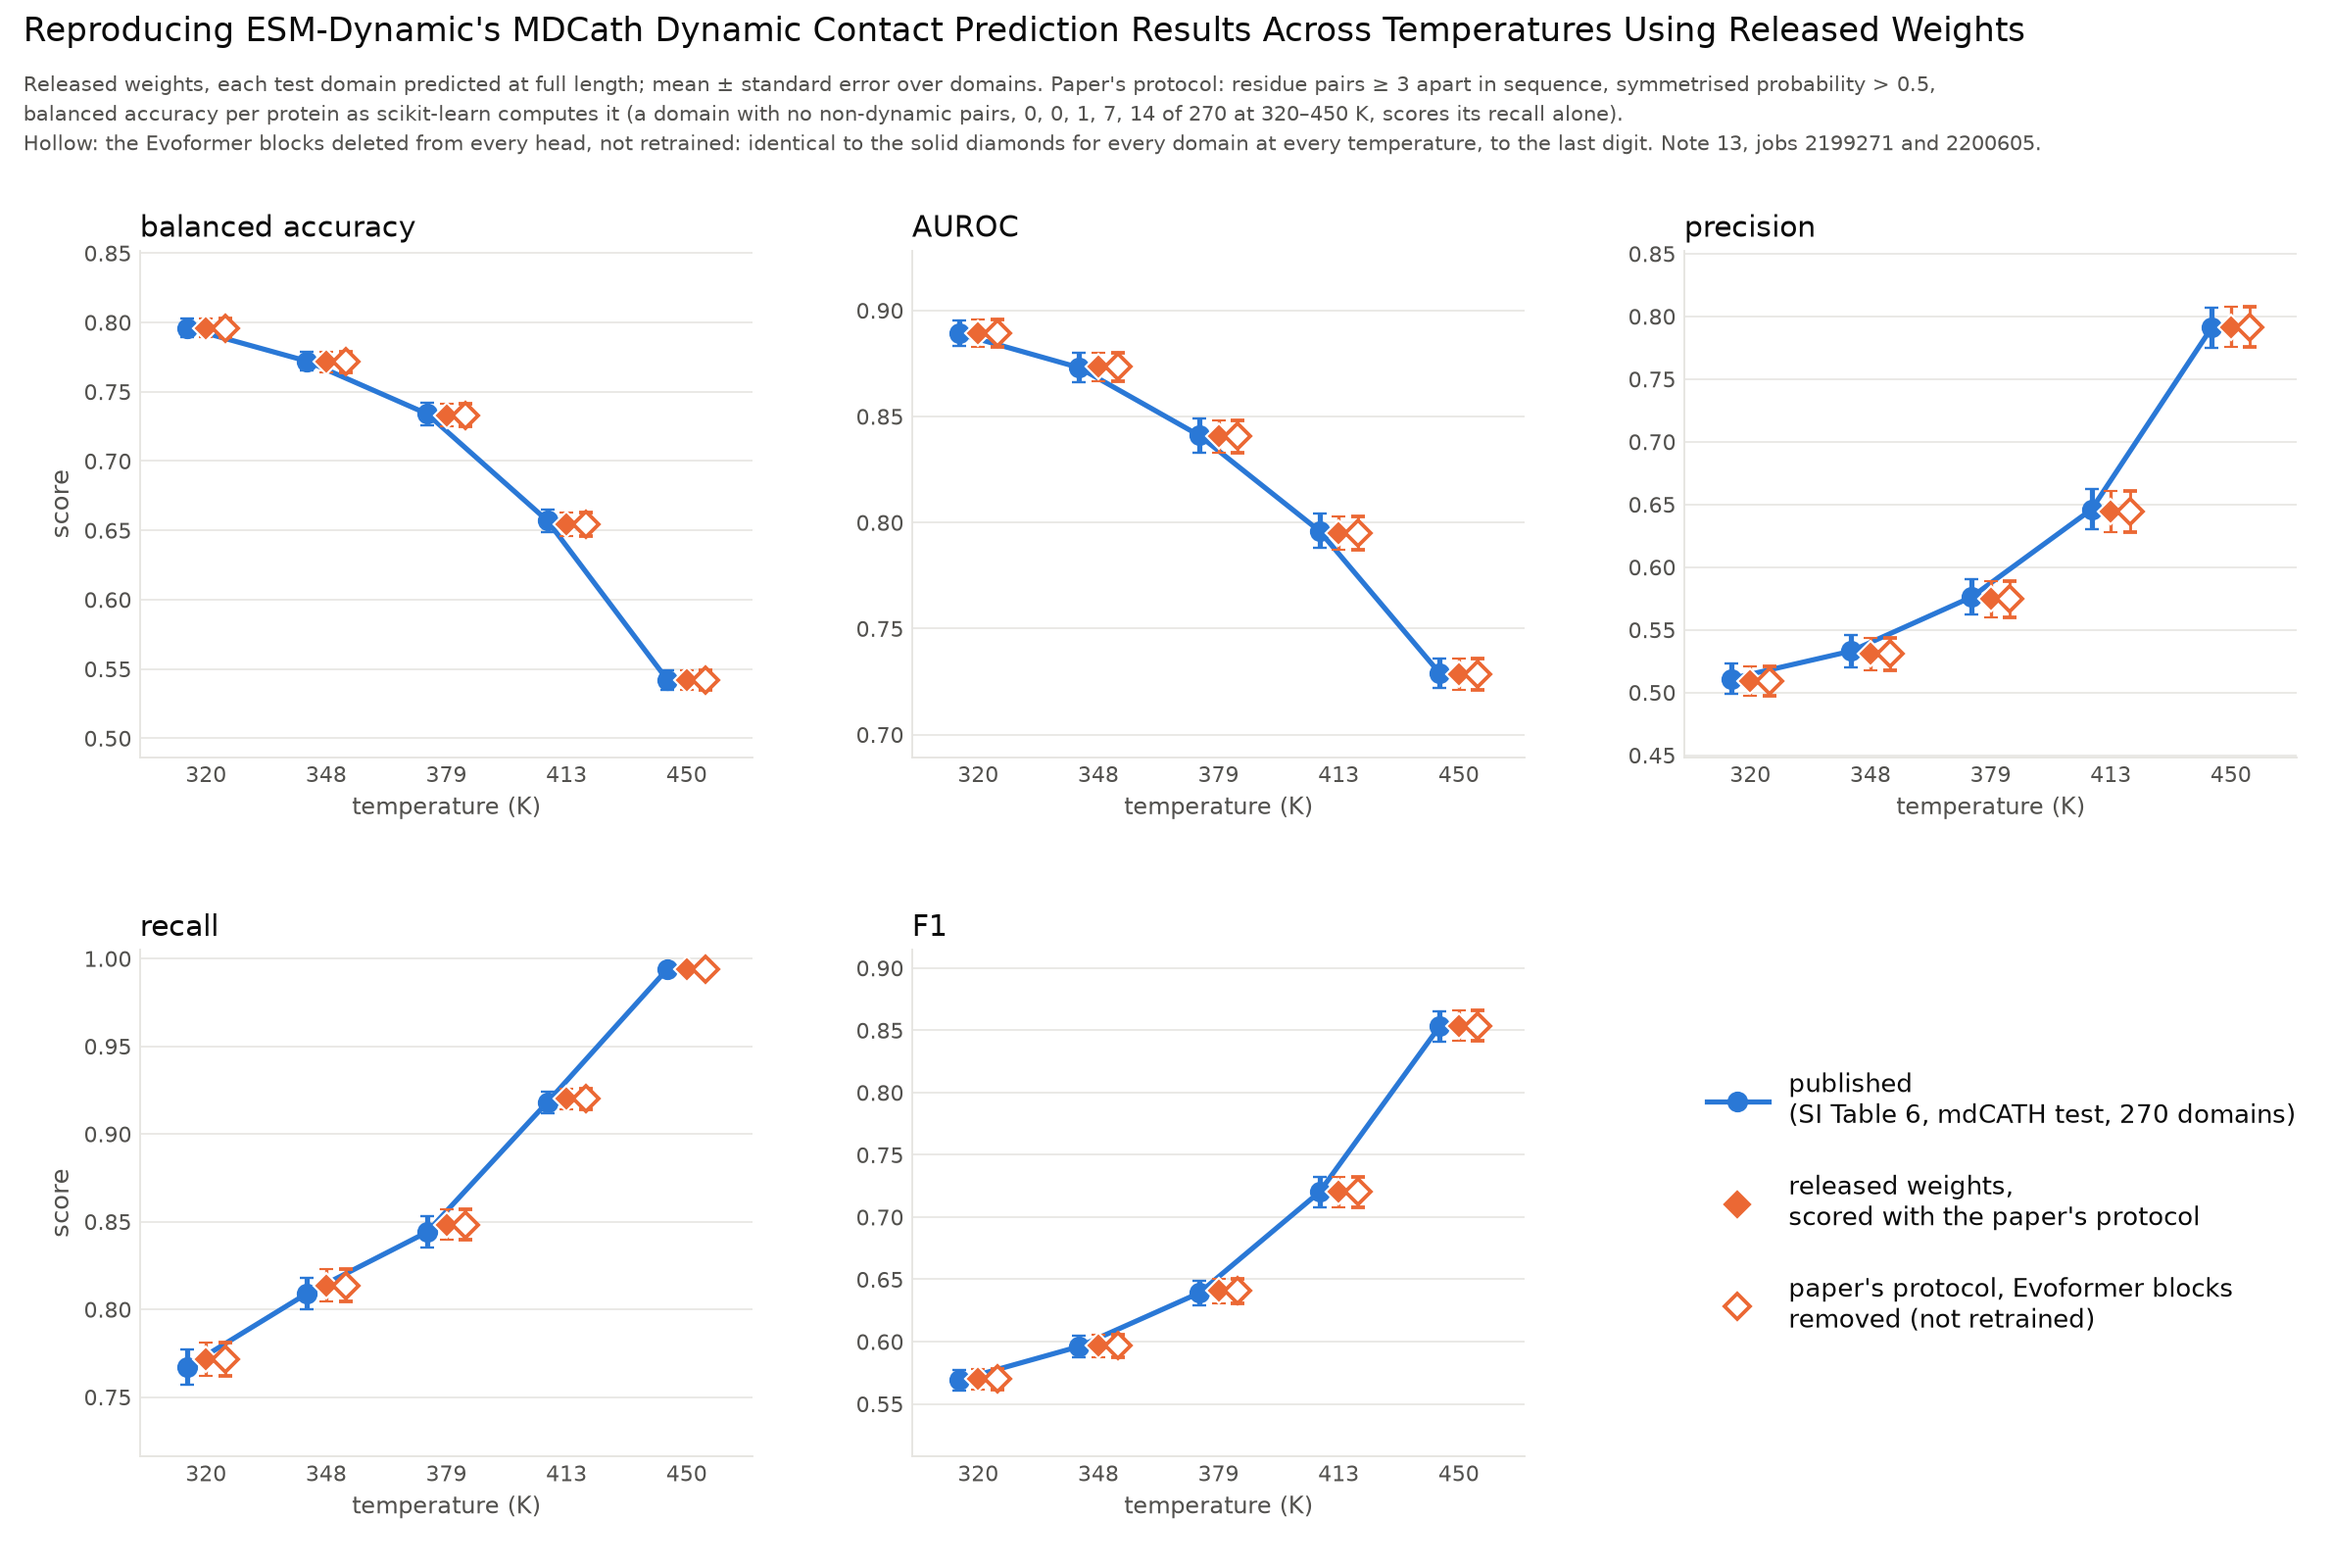
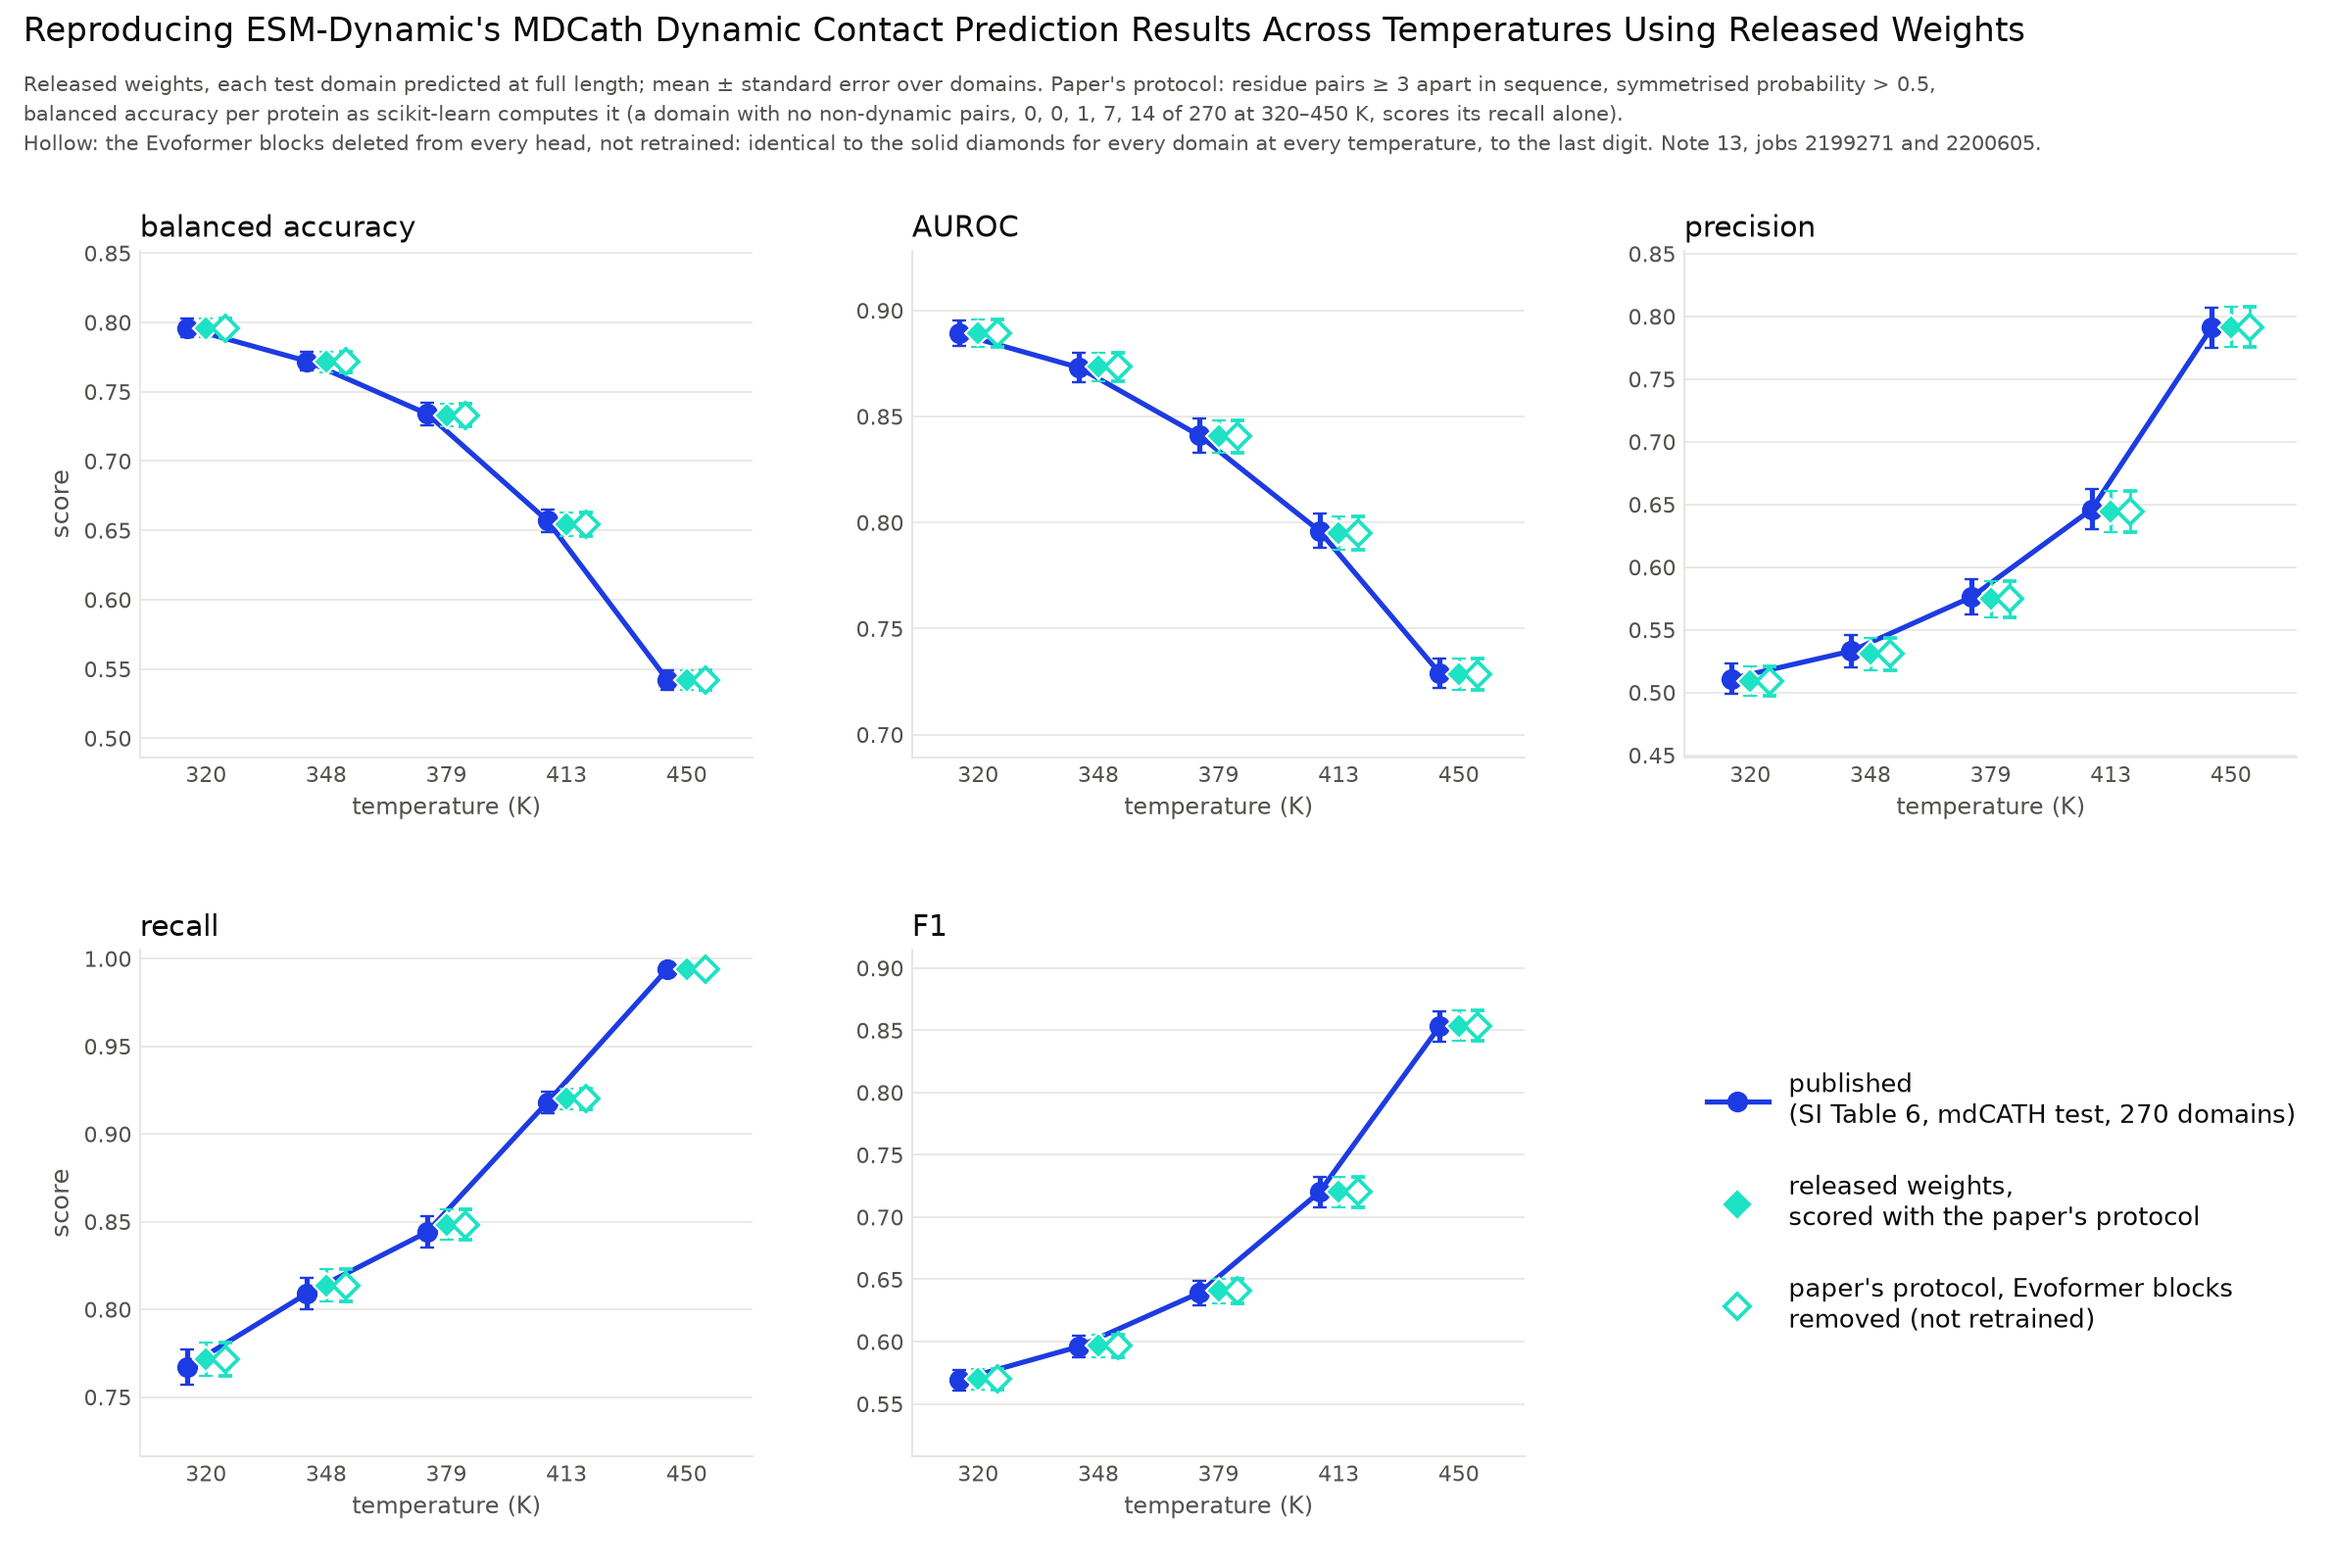
investigation: reproduction figures in #1D3BE2 (published) / #1DE2C4 (reproduced)

diff --git a/investigation/scripts/plot_atlas_table2_reproduction.py b/investigation/scripts/plot_atlas_table2_reproduction.py
@@ -7,7 +7,7 @@ Bars per Table 2 metric, in the same colours as the mdCATH figure
 (plot_si_table6_reproduction.py):
 
   blue    published, Table 2
-  orange  released weights, scored with the protocol that reproduces the paper. For ATLAS that is
+  teal    released weights, scored with the protocol that reproduces the paper. For ATLAS that is
           train.py's own validation scoring: 256-residue random crops (5 draws per long chain),
           sigmoid of the unsymmetrised logits > 0.5, all pairs of the crop -- the only protocol
           that matches all six metrics (note 12)
@@ -22,7 +22,7 @@ import json
 from pathlib import Path
 
 INK, INK_2, MUTED, GRID = "#0b0b0b", "#52514e", "#8a8985", "#e6e5e1"
-PUB, OURS, ALL = "#2a78d6", "#eb6834", "#a8a7a2"     # as in the mdCATH figure
+PUB, OURS, ALL = "#1D3BE2", "#1DE2C4", "#a8a7a2"     # as in the mdCATH figure
 METRICS = [("bal_acc", "balanced accuracy"), ("precision", "precision"), ("recall", "recall"),
            ("f1", "F1"), ("auroc", "AUROC"), ("rmse", "occupancy RMSE")]
 
@@ -56,7 +56,7 @@ def main():
         vals = [get(m) for _, _, get in series]
         top = max(v + se for v, se in vals)
         for i, ((col, hatch_col, _), (v, se)) in enumerate(zip(series, vals)):
-            if hatch_col:   # no-Evoformer: the orange protocol, hatched
+            if hatch_col:   # no-Evoformer: the teal protocol, hatched
                 ax.bar(i, v, width=0.72, color="white", zorder=3, edgecolor=hatch_col, linewidth=1.4, hatch="////")
             else:
                 ax.bar(i, v, width=0.72, color=col, zorder=3, edgecolor="white", linewidth=1.5)
@@ -85,9 +85,9 @@ def main():
     fig.text(0.01, 0.99, "Reproducing ESM-Dynamic's ATLAS Dynamic Contact Prediction Results Using Released Weights",
              fontsize=14.5, color=INK, va="top")
     fig.text(0.01, 0.955, "Released weights, 320 K output against the 300 K "
-             "ATLAS ensembles; mean ± standard error over 82 chains. Orange: scored as train.py scores (256-residue random "
+             "ATLAS ensembles; mean ± standard error over 82 chains. Teal: scored as train.py scores (256-residue random "
              "crops,\nraw logits > 0.5), the only protocol that matches all six metrics within one standard error. "
-             "Hatched: the Evoformer blocks deleted from every head, not retrained:\nidentical to orange for every chain, to "
+             "Hatched: the Evoformer blocks deleted from every head, not retrained:\nidentical to teal for every chain, to "
              "the last digit. Note 12, jobs 2158167 and 2200604.",
              fontsize=8.8, color=INK_2, va="top", linespacing=1.45)
     out = Path(args.out)

diff --git a/investigation/scripts/plot_si_table6_reproduction.py b/investigation/scripts/plot_si_table6_reproduction.py
@@ -21,7 +21,7 @@ import numpy as np
 import pandas as pd
 
 INK, INK_2, MUTED, GRID = "#0b0b0b", "#52514e", "#8a8985", "#e6e5e1"
-PUB, OURS, ALL = "#2a78d6", "#eb6834", "#a8a7a2"
+PUB, OURS, ALL = "#1D3BE2", "#1DE2C4", "#a8a7a2"
 TEMPS = [320, 348, 379, 413, 450]
 PUBLISHED = {  # SI Table 6, test split: mean, se
     "bal_acc": [(0.796, .007), (.772, .007), (.734, .008), (.657, .008), (.542, .007)],
